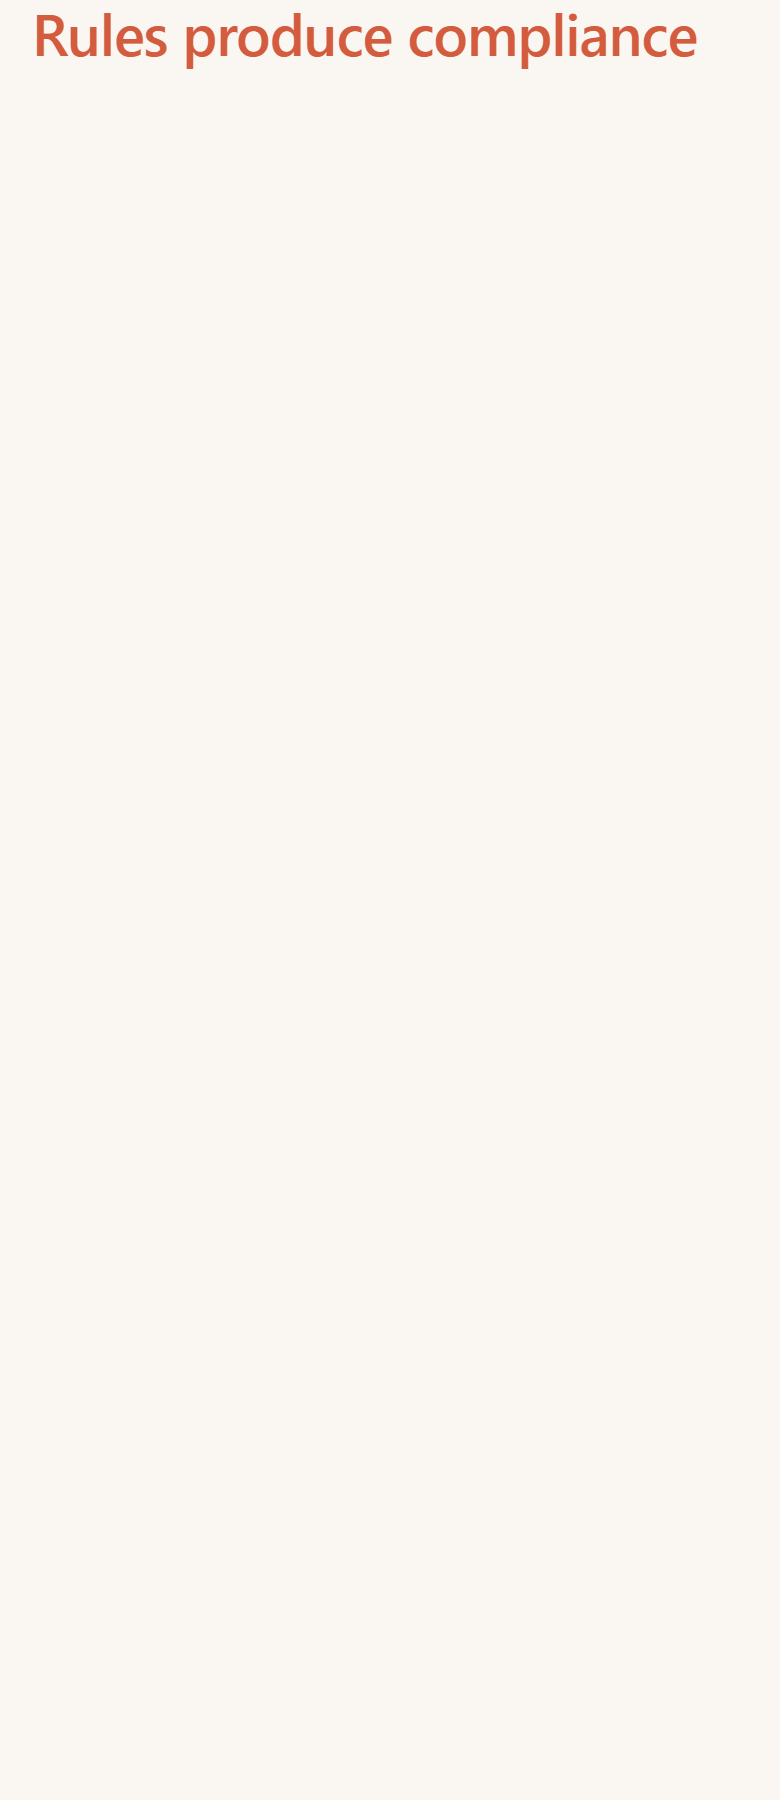
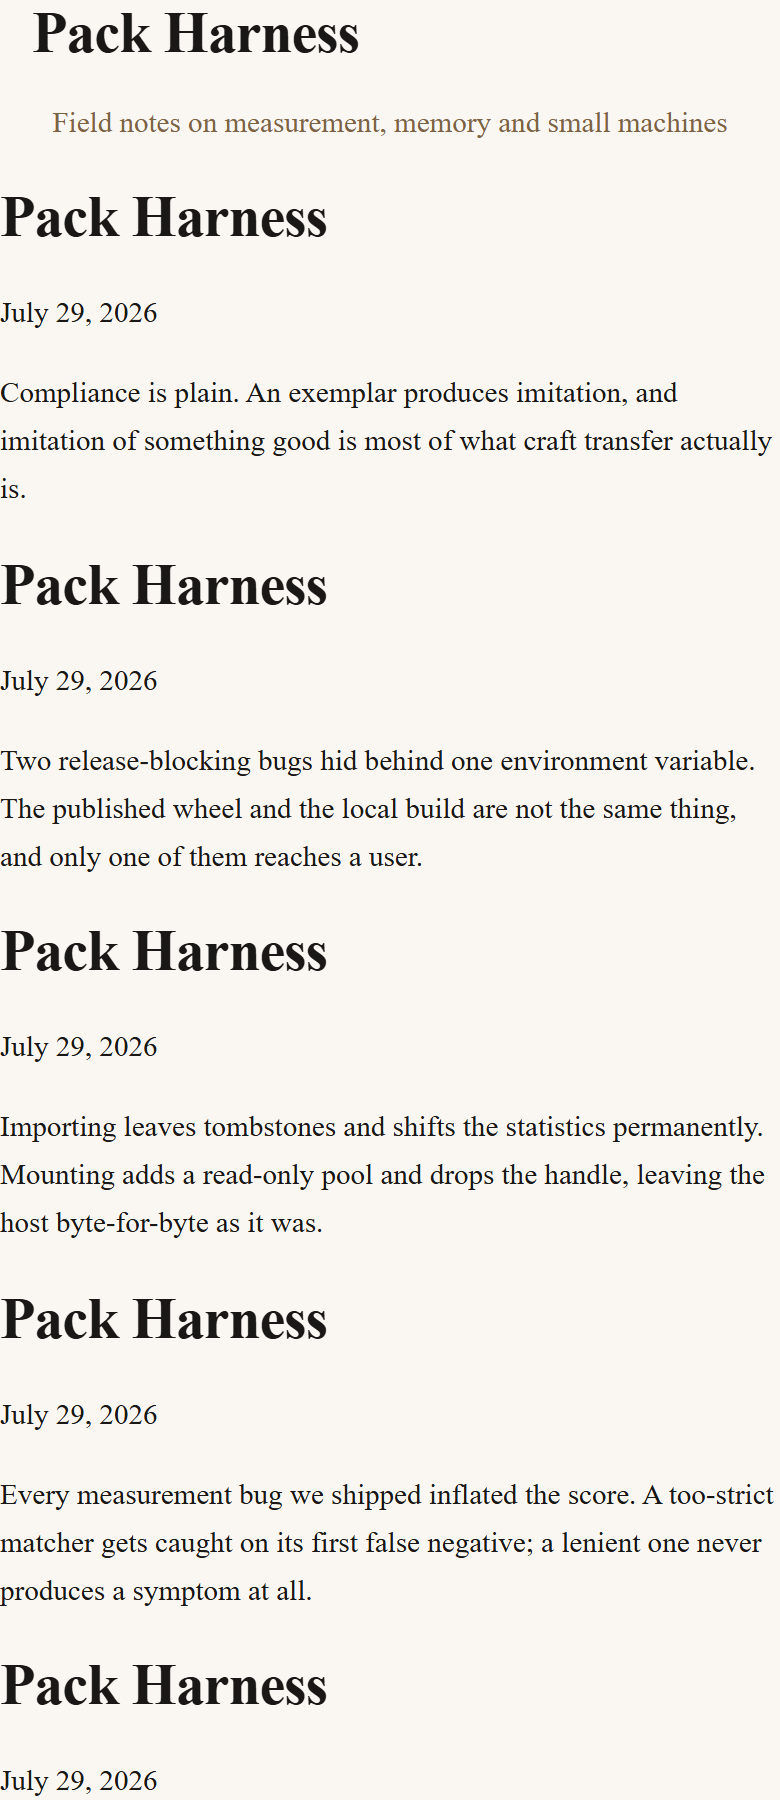
harness: validate block markup with WordPress's own parser
The 4B's empty page had one cause: a semicolon where a space belongs.

    <!-- wp:post-template;{"layout":{"type":"constrained"}}-->

parse_blocks() returns NULL, core/post-title, NULL for that — the
post-template block is dropped, so the query loop has no body. HTTP 200,
no PHP error, blank page. Only a real parser knows that, so validation is
a PHP script run through wp eval-file rather than a regex in Python: a
second implementation of the block grammar would be a second thing to keep
in step, and the discipline here is that WordPress decides.

Checks the parser can answer: dropped delimiters, unregistered block names,
attribute JSON that silently fails to parse, a query with no
post-template, a loop with no title/excerpt/date, a template with no
template-part.

Calibrated before use — 0 defects on all three reference-theme files, 3
real defects on the 4B's. A validator that has never passed a known-good
artifact is an opinion, not a check.

Two bugs found in my own loop, both the same shape as everything else this
session:

**defects_parsed returned [] when the WP-CLI call FAILED.** A validation
that could not run read as a validation that passed, so the loop printed
"verified" for a template whose query loop had no body. Sixth lenient
check in this project; the absence of a finding treated as the absence of
a problem. Now returns an explicit __unvalidated__ defect.

**The in-loop check read a stale file.** It wrote each file and validated
[…]

diff --git a/packs/theme-harness/build_iter.py b/packs/theme-harness/build_iter.py
@@ -184,6 +184,46 @@ def defects_theme_json(raw: str) -> list[str]:
     return out
 
 
+def defects_parsed(slug: str, path: str) -> list[str]:
+    """Ask WordPress's own parser what is wrong with the markup.
+
+    Not a Python reimplementation of the block grammar — that would be a
+    second parser to keep in step with the first, and the point of this
+    harness is that WordPress decides. It is also the only thing that
+    knows the defect that produced an empty page:
+
+        <!-- wp:post-template;{"layout":...}-->
+
+    a semicolon where a space belongs. parse_blocks() drops the block
+    entirely, so the query loop has no body and renders nothing. HTTP 200,
+    no PHP error, blank page.
+
+    Calibrated before use: 0 defects on all three reference-theme files,
+    3 real defects on the 4B's. A validator that has never passed a
+    known-good artifact is just an opinion.
+    """
+    code, out = wp("eval-file",
+                   "/var/www/html/wp-content/themes/harness/validate_blocks.php",
+                   f"{slug}/{path}")
+    # A validation that could not RUN must never read as a validation that
+    # PASSED. The first version returned [] here, so when WP-CLI failed to
+    # bootstrap — a broken theme left active by an earlier run — the loop
+    # printed "verified" for a template whose query loop had no body. That
+    # is the sixth check in this project to fail by being silently
+    # permissive, and the shape is always the same: the absence of a
+    # finding treated as the absence of a problem.
+    if code != 0 or "{" not in out:
+        first = (out.strip().splitlines() or ["no output"])[0][:160]
+        return [f"__unvalidated__ WordPress could not parse this file "
+                f"({first}) — treat as unverified, not as clean."]
+    try:
+        payload = json.loads(out[out.index("{"):out.rindex("}") + 1])
+    except (json.JSONDecodeError, ValueError):
+        return ["__unvalidated__ validator output was not JSON — treat as "
+                "unverified, not as clean."]
+    return list(payload.get("defects") or [])
+
+
 def defects_markup(path: str, body: str, manifest: list[str],
                    theme_json: str) -> list[str]:
     out = []
@@ -372,6 +412,38 @@ def main() -> int:
         reset_to_core()
         code, out = wp("theme", "activate", f"harness/{slug}")
     print(f"5 activate: {'ok' if 'Success' in out else 'still failing'}")
+
+    # ── 6. verify the ASSEMBLED theme, then repair ──────────────────
+    # The in-loop check validated each file the instant it was written,
+    # and on a Windows bind mount the container had not seen it yet — so
+    # WordPress parsed a stale copy and the loop printed "verified" for a
+    # template whose query loop had no body. Same lesson as the release
+    # that hid behind PYTHONPATH: verify the artifact that exists, not the
+    # step that produced it.
+    for path in [p for p in files if p.endswith(".html")]:
+        for attempt in range(args.rounds):
+            defects = defects_parsed(slug, path)
+            if not defects:
+                print(f"6 {path}: verified against the assembled theme")
+                break
+            print(f"6 {path}: {len(defects)} defect(s) -> repairing")
+            for d in defects:
+                print(f"    - {d[:110]}")
+            files[path] = repair(host, ollama, model, path, files[path],
+                                 defects, ctx) + "\n"
+            repairs += 1
+            write_theme(slug, files)
+            reset_to_core()
+            wp("theme", "activate", f"harness/{slug}")
+        else:
+            left = defects_parsed(slug, path)
+            if left:
+                print(f"6 {path}: {len(left)} defect(s) remain after "
+                      f"{args.rounds} repair(s)")
+
+    root = write_theme(slug, files)
+    reset_to_core()
+    wp("theme", "activate", f"harness/{slug}")
 
     res = grade(slug, root, files)
     print(f"\n{sum(res.values())}/{len(CHECKS)} plumbing   repairs: {repairs}")
